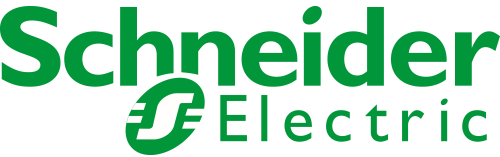
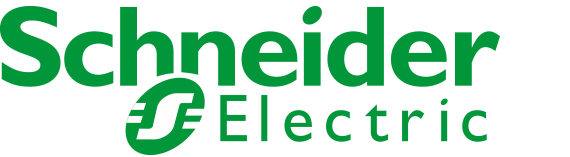
Cambios de formatos

diff --git a/index.html b/index.html
@@ -49,46 +49,56 @@
 
           <h3>Formación</h3>
           <table class='table table-striped'>
-            <tr><td><a href="https://docs.google.com/forms/d/e/1FAIpQLSeUbHw0il81NwwlRSqJSiWCsRvwJmWRYDCnrf_eio41hK8BaA/viewform?usp=sf_link" target="blank">Ingeniero de Telecomunicación</a>.</td><td><a href="https://www.etsi.us.es/" target="blank"><img src="img/ETSI.png" width=100></a></td></tr>
+            <tr><td><a href="https://docs.google.com/forms/d/e/1FAIpQLSeUbHw0il81NwwlRSqJSiWCsRvwJmWRYDCnrf_eio41hK8BaA/viewform?usp=sf_link" target="blank">Ingeniero de Telecomunicación</a>.</td><td><a href="https://www.us.es/" target="blank"><img src="img/univerdidadSevilla.png" width=55 style="float:right"></a><a href="https://www.etsi.us.es/" target="blank"><img src="img/ETSI.png" width=120 style="float:right"></a></td></tr>
           </table>
 
           <h3>Cursos</h3>
           <table class='table table-striped'>
-            <tr><td><a href="https://docs.google.com/forms/d/e/1FAIpQLSd36nOUdnrkYUTBmQiyM4BBr6nMctYqb2Pen9gkLRru8z-98g/viewform?usp=sf_link" target="blank">AXIS Camera Station para Profesionales</a>.</td><td><a href="https://www.axis.com/es-es/" target="blank"><img src="img/axis.png" width=100></a></td></tr>
-            <tr><td><a href="https://docs.google.com/forms/d/e/1FAIpQLScJsu5rZTtSAHnOe25bfz--TvQuyJENeVLV_ytFAIB0Au2cwQ/viewform?usp=sf_link" target="blank">Nagios: El Estándar en Monitoreo de Infraestructura</a>.</td><td><a href="https://www.udemy.com/" target="blank"><img src="img/udemy.png" width=100></a></td></tr>
-            <tr><td><a href="https://docs.google.com/forms/d/e/1FAIpQLScPwyCR4N3nXe1gChmWtgIWKlDbLDox2KAgTOJZPobNKzw-Lg/viewform?usp=sf_link" target="blank">Fundamentos del Técnico en Redes de Fibra Óptica</a>.</td><td><a href="https://formacion.telecocable.com/es/" target="blank"><img src="img/telecocable.png" width=100></a></td></tr>
-            <tr><td><a href="https://docs.google.com/forms/d/e/1FAIpQLSf26iuoeWJ3BXAAg4_RBPDWeKrQ7WE5dfgHMB6ZiZiZxWD_hg/viewform?usp=sf_link" target="blank">Gestión de Proyectos con Metodologías Ágiles y Enfoques Lean</a>.</td><td><a href="https://miriadax.net/" target="blank"><img src="img/Miriadax.png" width=100></a></td></tr>
-            <tr><td><a href="https://docs.google.com/forms/d/e/1FAIpQLSdMKIMyvxCAY1l-58iVPn55gBnVrIKvmNqlr4Clk142GPC5PA/viewform?usp=sf_link" target="blank">Curso de Hacking Web</a>.</td><td><a href="https://openwebinars.net/" target="blank"><img src="img/openwebinars.png" width=100></a></td></tr>
-            <tr><td><a href="https://docs.google.com/forms/d/e/1FAIpQLSfJ5BScSo2NIM4C7LmWAb-Dl2r07QZdCf8zS-2VeIFYV0GmQQ/viewform?usp=sf_link" target="blank">Curso de Orquestación y Automatización IT</a>.</td><td><a href="https://openwebinars.net/" target="blank"><img src="img/openwebinars.png" width=100></a></td></tr>
-            <tr><td><a href="https://docs.google.com/forms/d/e/1FAIpQLSeki9IOzyZdSow6_0Oa-vKMiZs367x5bzVaWNSczaLIqLHgLg/viewform?usp=sf_link" target="blank">Curso de Creación y Administración de Bases de Datos SQL</a>.</td><td><a href="https://openwebinars.net/" target="blank"><img src="img/openwebinars.png" width=100></a></td></tr>
-            <tr><td><a href="https://docs.google.com/forms/d/e/1FAIpQLSeuh-pzAcVtXc1aMX97XnZJA1fYc0cU9cShlsVw9p3RelNqMQ/viewform?usp=sf_link" target="blank">Curso de SQL desde Cero</a>.</td><td><a href="https://openwebinars.net/" target="blank"><img src="img/openwebinars.png" width=100></a></td></tr>
-            <tr><td><a href="https://docs.google.com/forms/d/e/1FAIpQLSe-mF1fDLT94ERFIu2r6Uj-Vk4uzknzIAGhDug9Wu-eZaCJcQ/viewform?usp=sf_link" target="blank">Gestión de Proyectos Orientado a la Certificación PMI®</a>.</td><td><a href="https://www.coit.es/" target="blank"><img src="img/COIT.png" width=100></a></td></tr>
-            <tr><td><a href="https://docs.google.com/forms/d/e/1FAIpQLSdswSUyCzgFBW3W_rLxeoxU4wXp9ZPIYdVXA7VscMaDBn563Q/viewform?usp=sf_link" target="blank">Introducción al Diseño de Videojuegos</a>.</td><td><a href="https://miriadax.net/" target="blank"><img src="img/Miriadax.png" width=100></a></td></tr>
-            <tr><td><a href="https://docs.google.com/forms/d/e/1FAIpQLSe1TUaz4SS0qX2s9S5fo1EQRzA78UuO6g2LgHw9SAxT_VHxhg/viewform?usp=sf_link" target="blank">Introducción al Machine Learning</a>.</td><td><a href="https://miriadax.net/" target="blank"><img src="img/Miriadax.png" width=100></a></td></tr>
-            <tr><td><a href="https://docs.google.com/forms/d/e/1FAIpQLSe6o4ccEkZl8peezpp1ca2L5dKasHbzWZ7yp31NBTXEIpIHVQ/viewform?usp=sf_link" target="blank">Investigación en Informática Forense y Ciberderecho</a>.</td><td><a href="https://miriadax.net/" target="blank"><img src="img/Miriadax.png" width=100></a></td></tr>
-            <tr><td><a href="https://docs.google.com/forms/d/e/1FAIpQLSeAJQAGBMlqgcanJMrtxG_R31TmKGPusguipSUSZboPmUFk5A/viewform?usp=sf_link" target="blank">Extreme Access Wireless WiNG</a>.</td><td><a href="https://www.westconcomstor.com/es/es.html" target="blank"><img src="img/westcon.png" width=100></a></td></tr>
-            <tr><td><a href="https://docs.google.com/forms/d/e/1FAIpQLSd0An3FElO_pcffjLb00kOuRLIeqStlsJIQ9Ui6FGwJ1dWl6g/viewform?usp=sf_link" target="blank">Certified Wireless Network Administrator (CWNA)</a>.</td><td><a href="https://www.westconcomstor.com/es/es.html" target="blank"><img src="img/westcon.png" width=100></a></td></tr>
-            <tr><td><a href="https://docs.google.com/forms/d/e/1FAIpQLScXxQloWcGFip3nAEJyTifwAzeX4KR57GgnAikWCHkf_l4lMA/viewform?usp=sf_link" target="blank">Introducción a Linux como Entorno de Desarrollo de Software</a>.</td><td><a href="https://miriadax.net/" target="blank"><img src="img/Miriadax.png" width=100></a></td></tr>
-            <tr><td><a href="https://docs.google.com/forms/d/e/1FAIpQLSfkT9JEORekNl5KNjVAUGyxTWNsyBn4UgiSP8mT4kNLiioMXA/viewform?usp=sf_link" target="blank">Curso de Productividad Personal en la Era Digital</a>.</td><td><a href="https://learndigital.withgoogle.com/activate" target="blank"><img src="img/googleactivate.png" width=100></a></td></tr></tr>
-            <tr><td><a href="https://docs.google.com/forms/d/e/1FAIpQLSc5Wgcv8CFjz5KTQjWOux-rqjsFIhhTzZJKei23u2B0vvFQsQ/viewform?usp=sf_link" target="blank">Agilidad y Lean. Gestionando los Proyectos y Negocios del Siglo XXI</a>.</td><td><a href="https://miriadax.net/" target="blank"><img src="img/Miriadax.png" width=100></a></td></tr>
-            <tr><td><a href="https://docs.google.com/forms/d/e/1FAIpQLSc7v_d2-x96MqI2GPtLJJezldYUbJlrwElflW6kCfkvSRzpFQ/viewform?usp=sf_link" target="blank">Nivel Básico De Prevención de Riesgos</a>.</td><td><a href="http://www.avsprevencion.com/es/" target="blank"><img src="img/AVS.png" width=40></a></td></tr>
-            <tr><td><a href="https://docs.google.com/forms/d/e/1FAIpQLSdES-tVMZ7Tn0M1r8Pud8tJO3x_NgA-cmhzSnLez0a0h1Mumg/viewform?usp=sf_link" target="blank">Creando Apps. Aprende a Programar Aplicaciones Móviles</a>.</td><td><a href="https://miriadax.net/" target="blank"><img src="img/Miriadax.png" width=100></a></td></tr>
-            <tr><td><a href="https://docs.google.com/forms/d/e/1FAIpQLSeuMi_aQPX02shrglPR7-N9itlnDeTtsaVhhV8Bebq4kcdrtQ/viewform?usp=sf_link" target="blank">Curso de Formación Preventiva según ITC 02.1.02</a>.</td><td><a href="http://iph.es/" target="blank"><img src="img/iph.png" width=50></a></td></tr>
-            <tr><td><a href="https://docs.google.com/forms/d/e/1FAIpQLSddQzWlqRHLACNEI_CfH-OWd0uZNMx-WTT9IaFiLq6MBHxllA/viewform?usp=sf_link" target="blank">Curso de Lucha Contra Incendios Nivel Básico</a>.</td><td><a href="http://www.avsprevencion.com/es/" target="blank"><img src="img/AVS.png" width=40></a></td></tr>
-            <tr><td><a href="https://docs.google.com/forms/d/e/1FAIpQLSeLW3qFE5v_iffGREoS3zXzVUCuVSHBSyYckcCkPGGZzaxP4g/viewform?usp=sf_link" target="blank">Curso de Primeros Auxilios</a>.</td><td><a href="http://www.avsprevencion.com/es/" target="blank"><img src="img/AVS.png" width=40></a></td></tr>
-            <tr><td><a href="https://docs.google.com/forms/d/e/1FAIpQLSf9xywlbK6JyyRMJIjn08DOu3vpHdZ2x1E8ZLQdj6YhFbU-nw/viewform?usp=sf_link" target="blank">Diseño de Proyectos de Radioenlaces</a>.</td><td><a href="https://www.coit.es/" target="blank"><img src="img/COIT.png" width=100></a></td></tr>
-            <tr><td><a href="https://docs.google.com/forms/d/e/1FAIpQLSepUAtjfk0VNk2wtDxg9yOJx5NwrDz6BzA722ilLaxKWwG8Hw/viewform?usp=sf_link" target="blank">Programación PLC SIMATIC S7 300/400 Nivel 2</a>.</td><td><a href="https://support.industry.siemens.com/cs/start?lc=es-ES" target="blank"><img src="img/Siemens.png" width=90></a></td></tr>
-            <tr><td><a href="https://docs.google.com/forms/d/e/1FAIpQLScyF-GV9KQ2SYkEYpFA6U4g_Vccl-g7SPdGrh6UQ9k_pTRY5w/viewform?usp=sf_link" target="blank">Operador de Aparatos Elevadores (PEMP)</a>.</td><td><a href="https://www.loxamhune.com/" target="blank"><img src="img/hune.png" width=30></a></td></tr>
-            <tr><td><a href="https://drive.google.com/file/d/1lQ32sJJi3xZLVB60Ofne0qbuoJvWtPff/view?usp=sharing" target="blank">Robótica de Servicios</a>.</td><td><a href="https://www.unizar.es/" target="blank"><img src="img/UZ.png" width=80></a></td></tr>
-            <tr><td><a href="https://drive.google.com/file/d/1gxfPKsgoLW4CcvTBs74EJj0uG-bNqp2E/view?usp=sharing" target="blank">Sistemas Industriales de Control</a>.</td><td><a href="https://www.unizar.es/" target="blank"><img src="img/UZ.png" width=80></a><a target="blank">     </a><a href="https://www.se.com/es/es/" target="blank"><img src="img/schneider_electric.png" width=80></a></td></tr>
-            <tr><td><a href="https://drive.google.com/file/d/1vUmKfZaYvWk26HJJ1BTTUMKD6j876lNI/view?usp=sharing" target="blank">Neurocomputación (Redes Neuronales Artificiales)</a>.</td><td><a href="https://www.unizar.es/" target="blank"><img src="img/UZ.png" width=80></a></td></tr>
+            <tr><td><a href="https://docs.google.com/forms/d/e/1FAIpQLSd36nOUdnrkYUTBmQiyM4BBr6nMctYqb2Pen9gkLRru8z-98g/viewform?usp=sf_link" target="blank">AXIS Camera Station para Profesionales</a>.</td><td><a href="https://www.axis.com/es-es/" target="blank"><img src="img/axis.png" width=80 style="float:right"></a></td></tr>
+            <tr><td><a href="https://docs.google.com/forms/d/e/1FAIpQLScJsu5rZTtSAHnOe25bfz--TvQuyJENeVLV_ytFAIB0Au2cwQ/viewform?usp=sf_link" target="blank">Nagios: El Estándar en Monitoreo de Infraestructura</a>.</td><td><a href="https://www.udemy.com/" target="blank"><img src="img/udemy.png" width=90 style="float:right"></a></td></tr>
+            <tr><td><a href="https://docs.google.com/forms/d/e/1FAIpQLScPwyCR4N3nXe1gChmWtgIWKlDbLDox2KAgTOJZPobNKzw-Lg/viewform?usp=sf_link" target="blank">Fundamentos del Técnico en Redes de Fibra Óptica</a>.</td><td><a href="https://formacion.telecocable.com/es/" target="blank"><img src="img/telecocable.png" width=100 style="float:right"></a></td></tr>
+            <tr><td><a href="https://docs.google.com/forms/d/e/1FAIpQLSf26iuoeWJ3BXAAg4_RBPDWeKrQ7WE5dfgHMB6ZiZiZxWD_hg/viewform?usp=sf_link" target="blank">Gestión de Proyectos con Metodologías Ágiles y Enfoques Lean</a>.</td><td><a href="https://miriadax.net/" target="blank"><img src="img/Miriadax.png" width=100 style="float:right"></a></td></tr>
+            <tr><td><a href="https://docs.google.com/forms/d/e/1FAIpQLSdMKIMyvxCAY1l-58iVPn55gBnVrIKvmNqlr4Clk142GPC5PA/viewform?usp=sf_link" target="blank">Curso de Hacking Web</a>.</td><td><a href="https://openwebinars.net/" target="blank"><img src="img/openwebinars.png" width=100 style="float:right"></a></td></tr>
+            <tr><td><a href="https://docs.google.com/forms/d/e/1FAIpQLSfJ5BScSo2NIM4C7LmWAb-Dl2r07QZdCf8zS-2VeIFYV0GmQQ/viewform?usp=sf_link" target="blank">Curso de Orquestación y Automatización IT</a>.</td><td><a href="https://openwebinars.net/" target="blank"><img src="img/openwebinars.png" width=100 style="float:right"></a></td></tr>
+            <tr><td><a href="https://docs.google.com/forms/d/e/1FAIpQLSeki9IOzyZdSow6_0Oa-vKMiZs367x5bzVaWNSczaLIqLHgLg/viewform?usp=sf_link" target="blank">Curso de Creación y Administración de Bases de Datos SQL</a>.</td><td><a href="https://openwebinars.net/" target="blank"><img src="img/openwebinars.png" width=100 style="float:right"></a></td></tr>
+            <tr><td><a href="https://docs.google.com/forms/d/e/1FAIpQLSeuh-pzAcVtXc1aMX97XnZJA1fYc0cU9cShlsVw9p3RelNqMQ/viewform?usp=sf_link" target="blank">Curso de SQL desde Cero</a>.</td><td><a href="https://openwebinars.net/" target="blank"><img src="img/openwebinars.png" width=100 style="float:right"></a></td></tr>
+            <tr><td><a href="https://docs.google.com/forms/d/e/1FAIpQLSe-mF1fDLT94ERFIu2r6Uj-Vk4uzknzIAGhDug9Wu-eZaCJcQ/viewform?usp=sf_link" target="blank">Gestión de Proyectos Orientado a la Certificación PMI®</a>.</td><td><a href="https://www.coit.es/" target="blank"><img src="img/COIT.png" width=100 style="float:right"></a></td></tr>
+            <tr><td><a href="https://docs.google.com/forms/d/e/1FAIpQLSdswSUyCzgFBW3W_rLxeoxU4wXp9ZPIYdVXA7VscMaDBn563Q/viewform?usp=sf_link" target="blank">Introducción al Diseño de Videojuegos</a>.</td><td><a href="https://miriadax.net/" target="blank"><img src="img/Miriadax.png" width=100 style="float:right"></a></td></tr>
+            <tr><td><a href="https://docs.google.com/forms/d/e/1FAIpQLSe1TUaz4SS0qX2s9S5fo1EQRzA78UuO6g2LgHw9SAxT_VHxhg/viewform?usp=sf_link" target="blank">Introducción al Machine Learning</a>.</td><td><a href="https://miriadax.net/" target="blank"><img src="img/Miriadax.png" width=100 style="float:right"></a></td></tr>
+            <tr><td><a href="https://docs.google.com/forms/d/e/1FAIpQLSe6o4ccEkZl8peezpp1ca2L5dKasHbzWZ7yp31NBTXEIpIHVQ/viewform?usp=sf_link" target="blank">Investigación en Informática Forense y Ciberderecho</a>.</td><td><a href="https://miriadax.net/" target="blank"><img src="img/Miriadax.png" width=100 style="float:right"></a></td></tr>
+            <tr><td><a href="https://docs.google.com/forms/d/e/1FAIpQLSeAJQAGBMlqgcanJMrtxG_R31TmKGPusguipSUSZboPmUFk5A/viewform?usp=sf_link" target="blank">Extreme Access Wireless WiNG</a>.</td><td><a href="https://www.westconcomstor.com/es/es.html" target="blank"><img src="img/westcon.png" width=100 style="float:right"></a></td></tr>
+            <tr><td><a href="https://docs.google.com/forms/d/e/1FAIpQLSd0An3FElO_pcffjLb00kOuRLIeqStlsJIQ9Ui6FGwJ1dWl6g/viewform?usp=sf_link" target="blank">Certified Wireless Network Administrator (CWNA)</a>.</td><td><a href="https://www.westconcomstor.com/es/es.html" target="blank"><img src="img/westcon.png" width=100 style="float:right"></a></td></tr>
+            <tr><td><a href="https://docs.google.com/forms/d/e/1FAIpQLScXxQloWcGFip3nAEJyTifwAzeX4KR57GgnAikWCHkf_l4lMA/viewform?usp=sf_link" target="blank">Introducción a Linux como Entorno de Desarrollo de Software</a>.</td><td><a href="https://miriadax.net/" target="blank"><img src="img/Miriadax.png" width=100 style="float:right"></a></td></tr>
+            <tr><td><a href="https://docs.google.com/forms/d/e/1FAIpQLSfkT9JEORekNl5KNjVAUGyxTWNsyBn4UgiSP8mT4kNLiioMXA/viewform?usp=sf_link" target="blank">Curso de Productividad Personal en la Era Digital</a>.</td><td><a href="https://learndigital.withgoogle.com/activate" target="blank"><img src="img/googleactivate.png" width=100 style="float:right"></a></td></tr></tr>
+            <tr><td><a href="https://docs.google.com/forms/d/e/1FAIpQLSc5Wgcv8CFjz5KTQjWOux-rqjsFIhhTzZJKei23u2B0vvFQsQ/viewform?usp=sf_link" target="blank">Agilidad y Lean. Gestionando los Proyectos y Negocios del Siglo XXI</a>.</td><td><a href="https://miriadax.net/" target="blank"><img src="img/Miriadax.png" width=100 style="float:right"></a></td></tr>
+            <tr><td><a href="https://docs.google.com/forms/d/e/1FAIpQLSc7v_d2-x96MqI2GPtLJJezldYUbJlrwElflW6kCfkvSRzpFQ/viewform?usp=sf_link" target="blank">Nivel Básico De Prevención de Riesgos</a>.</td><td><a href="http://www.avsprevencion.com/es/" target="blank"><img src="img/AVS.png" width=40 style="float:right"></a></td></tr>
+            <tr><td><a href="https://docs.google.com/forms/d/e/1FAIpQLSdES-tVMZ7Tn0M1r8Pud8tJO3x_NgA-cmhzSnLez0a0h1Mumg/viewform?usp=sf_link" target="blank">Creando Apps. Aprende a Programar Aplicaciones Móviles</a>.</td><td><a href="https://miriadax.net/" target="blank"><img src="img/Miriadax.png" width=100 style="float:right"></a></td></tr>
+            <tr><td><a href="https://docs.google.com/forms/d/e/1FAIpQLSeuMi_aQPX02shrglPR7-N9itlnDeTtsaVhhV8Bebq4kcdrtQ/viewform?usp=sf_link" target="blank">Curso de Formación Preventiva según ITC 02.1.02</a>.</td><td><a href="http://iph.es/" target="blank"><img src="img/iph.png" width=50 style="float:right"></a></td></tr>
+            <tr><td><a href="https://docs.google.com/forms/d/e/1FAIpQLSddQzWlqRHLACNEI_CfH-OWd0uZNMx-WTT9IaFiLq6MBHxllA/viewform?usp=sf_link" target="blank">Curso de Lucha Contra Incendios Nivel Básico</a>.</td><td><a href="http://www.avsprevencion.com/es/" target="blank"><img src="img/AVS.png" width=40 style="float:right"></a></td></tr>
+            <tr><td><a href="https://docs.google.com/forms/d/e/1FAIpQLSeLW3qFE5v_iffGREoS3zXzVUCuVSHBSyYckcCkPGGZzaxP4g/viewform?usp=sf_link" target="blank">Curso de Primeros Auxilios</a>.</td><td><a href="http://www.avsprevencion.com/es/" target="blank"><img src="img/AVS.png" width=40 style="float:right"></a></td></tr>
+            <tr><td><a href="https://docs.google.com/forms/d/e/1FAIpQLSf9xywlbK6JyyRMJIjn08DOu3vpHdZ2x1E8ZLQdj6YhFbU-nw/viewform?usp=sf_link" target="blank">Diseño de Proyectos de Radioenlaces</a>.</td><td><a href="https://www.coit.es/" target="blank"><img src="img/COIT.png" width=100 style="float:right"></a></td></tr>
+            <tr><td><a href="https://docs.google.com/forms/d/e/1FAIpQLSepUAtjfk0VNk2wtDxg9yOJx5NwrDz6BzA722ilLaxKWwG8Hw/viewform?usp=sf_link" target="blank">Programación PLC SIMATIC S7 300/400 Nivel 2</a>.</td><td><a href="https://support.industry.siemens.com/cs/start?lc=es-ES" target="blank"><img src="img/Siemens.png" width=90 style="float:right"></a></td></tr>
+            <tr><td><a href="https://docs.google.com/forms/d/e/1FAIpQLScyF-GV9KQ2SYkEYpFA6U4g_Vccl-g7SPdGrh6UQ9k_pTRY5w/viewform?usp=sf_link" target="blank">Operador de Aparatos Elevadores (PEMP)</a>.</td><td><a href="https://www.loxamhune.com/" target="blank"><img src="img/hune.png" width=30 style="float:right"></a></td></tr>
+            <tr><td><a href="https://drive.google.com/file/d/1lQ32sJJi3xZLVB60Ofne0qbuoJvWtPff/view?usp=sharing" target="blank">Robótica de Servicios</a>.</td><td><a href="https://www.unizar.es/" target="blank"><img src="img/UZ.png" width=80 style="float:right"></a></td></tr>
+            <tr><td><a href="https://drive.google.com/file/d/1gxfPKsgoLW4CcvTBs74EJj0uG-bNqp2E/view?usp=sharing" target="blank">Sistemas Industriales de Control</a>.</td><td><a href="https://www.unizar.es/" target="blank"><img src="img/UZ.png" width=80 style="float:right"></a><a target="blank">     </a><a href="https://www.se.com/es/es/" target="blank"><img src="img/schneider_electric.png" width=90 style="float:right"></a></td></tr>
+            <tr><td><a href="https://drive.google.com/file/d/1vUmKfZaYvWk26HJJ1BTTUMKD6j876lNI/view?usp=sharing" target="blank">Neurocomputación (Redes Neuronales Artificiales)</a>.</td><td><a href="https://www.unizar.es/" target="blank"><img src="img/UZ.png" width=80 style="float:right"></a></td></tr>
           </table>
+
+          <h3>Idiomas</h3>
+          <table class='table table-striped'>
+            <tr><td>Inglés.</td><td><img src="img/english.png" width=50 style="float:right"></td></td></tr>
+            <tr><td><a href="https://docs.google.com/forms/d/e/1FAIpQLSfbnCT61rzmx14mp9Dyy9MlD8vjEb9hCCHzIsx_aTrm2ZV8Nw/viewform?usp=sf_link" target="blank">Niveles 1, 2 y 3 (Intermediate-B2).</a></td><td></td></tr>
+            <tr><td>Certificate of Attainment in English.</td><td></td></tr>
+            <tr><td>University of London Examinations and Assessment Council.</td><td><img src="img/LondonUniv.png" width=80 style="float:right"></td></tr>
+            <tr><td>EDEXCEL Foundation.</td><td><img src="img/edexcel.png" width=90 style="float:right"></td></tr>
+          </table>
+
         </div>
       </div>
 
       <footer class="footer">
         <!--Sustituir por los datos del alumno-->
-        <p>&copy; Julián Barranca - 2020</p>
+        <p>&copy; Julián Barranca - 2021</p>
       </footer>
 
     </div>
